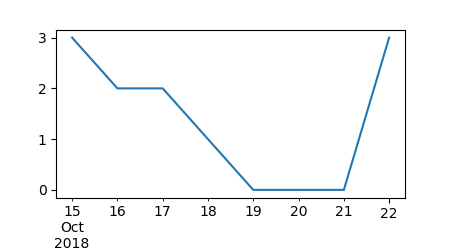
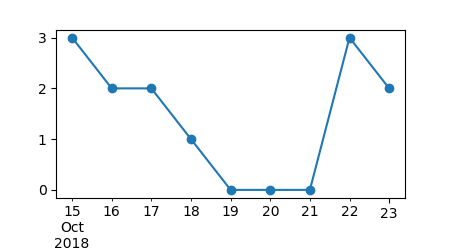
2 papers

diff --git a/readingStats.py b/readingStats.py
@@ -33,7 +33,7 @@ wordcloud.to_file("readingCloud.png")
 a = readDates.groupby('Date').size()
 idx = pd.date_range(min(readDates.Date), max(readDates.Date))
 a =a.reindex(idx,fill_value=0)
-a.plot(figsize = (4.5,2.5))
+a.plot(style='o-',figsize = (4.5,2.5))
 plt.gcf().subplots_adjust(bottom=0.21)
 plt.savefig('readingTimeline.png')
 

diff --git a/acoustics/Foote1987JASA.md b/acoustics/Foote1987JASA.md
@@ -1,0 +1,39 @@
+10/23/18
+## Authors:
+Foote, K. G.
+## Title:
+Fish target strengths for use in echo integrator surveys
+## Keywords:
+acoustics, target strength, model, survey, length
+## Geographic Coverage
+N/A
+## Field Dates:
+N/A
+## Significance:
+An investigation into the backscattering cross section, or target strength, of fish, and the methods for in situ determination of TS and relating it to fish length.  Foote proposes a set of regression analyses from in situ measurements for generalized fish families based on available data.
+
+## Notes:
+Three systems for collecting in situ measurements:
+- Dual-beam systems where simultaneous observation by concentric circles allows for beam compensation off-axis and determination of target strength
+- Split-beam systems where the division of the transducer face into quadrants for separate processing of signal return allows for beam compensation of signal
+- Single-beam systems where many observations of a single target are required to determine a target strength value
+
+TS = 10log&sigma;/4&pi;; where &sigma; is the mean backscattering cross section of the fish.
+
+TS can also be found using a regression of the length of the fish as derived in [Love, 1977](https://asa.scitation.org/doi/10.1121/1.381672), who found that &sigma; and *l*<sup>2</sup> were proportional.  We then use:
+
+TS = 20log*l* + *b* ; where *l* is the mean fish length (cm) and *b* is a coefficient derived for a specific species/group/family.
+
+The primary difference in fish groups is the swimbladder type:
+- physostomes with a duct in/out of the swimbladder where air can be pushed out, but they do not have a rete mirabile for oxygen exchange through the blood to refill/regulate the bladder size efficiently.
+- physoclists which have closed swim bladders and use this gas exchange via blood oxygen to manipulate buoyancy.
+
+TS can further be distinguished by differences in family composition within these groups, and then again by species depending on number of measurements.
+
+TS can vary with time of day as a result of orientation.
+
+Are variations in TS a result of fluctuations in species, time of day, or behavior, and which is most important?  How do individual factors influence the variation?  Tilt angle is a major source of variance, and Foote presents the TS values determined by tethered observations.
+
+Concluding hypotheses
+* Foote presents a set of generalized equations for the relationship between target strength and mean fish length
+* Most variability in the regressions is due to species and behavior which are hard to quantify without a) significant number of measurements and b) knowledge of the orientation of those fish being observed in situ

diff --git a/acoustics/TorgersenKaartvedt2001JMR.md b/acoustics/TorgersenKaartvedt2001JMR.md
@@ -1,0 +1,33 @@
+10/23/18
+## Authors:
+Torgersen, T, and Kaartvedt, S.
+## Title:
+In situ swimming behaviour of individual mesopelagic fish studied by split-beam echo target tracking
+## Keywords:
+acoustics, tracking, diel vertical migration, swimming, mesopelagic
+## Geographic Coverage
+Norway
+## Field Dates:
+02/15/1996
+## Significance:
+One of the earlier papers presenting the use of target tracking of individual fish to evaluate individual behavior.  Used a 38 kHz EK500 for data collection.
+
+## Notes:
+Ship-based split-beam observations, tracks were "collected" from single pings where at most one ping was missing a detection.  Data was collected at both "dusk" and "night" to investigate behavior associated with DVM.
+
+Filtered to -70dB, with a vertical resolution of 10cm and a horizontal angular resolution of .13 degrees, with error increasing with range.
+
+Look for accuracy by comparing swim speed with angular position (i.e., is speed of the fish a 1-to-1 direct relationship with angle size?  likely greater angle bias).  They backed out ship rolling from a linear relationship with the target track (was movement of simultaneously tracked fish correlated?).
+
+Individuals were only tracked outside of the "major scattering layer".  
+
+Swim speeds at dusk were greater than at night, though not considered significant.
+
+Used net-to-gross ratio of swim speeds to suggest that waves did not contribute to the vertical distribution.  However in the vertical dimension, erratic swimming (either positionally or very high values of BL/sec) was likely attributed to heave.
+
+The behavior of tracked individuals was not consistent with the population behavior determined by the scattering layers.  Individuals appear to move down while the layer moves up, though it is possible that the fish are tilted so much as to reduce the TS, making it harder/less likely to detect them at that angle, but the aggregation still appears.
+
+Concluding hypotheses
+* Mesopelagic fish may be more active swimmers than previously assumed.
+* Speed and pattern is related to feeding behavior.
+* Target tracking is a great method for answering these behavioral questions in situ, with tracking data being improved by using moored, upward facing sounders, increasing ping rate, increasing temporal resolution, and maximizing SNR.

diff --git a/README.md b/README.md
@@ -12,6 +12,10 @@ Notes (author, year, journal in file header) on readings.  Top of each note docu
 
 ## acoustics 
  
+* [Foote1987JASA - Fish target strengths for use in echo integrator surveys](https://github.com/leviner/ReadingList/tree/master/acoustics/Foote1987JASA.md) 
+     * An investigation into the backscattering cross section, or target strength, of fish, and the methods for in situ determination of TS and relating it to fish length.  Foote proposes a set of regression analyses from in situ measurements for generalized fish families based on available data. 
+* [TorgersenKaartvedt2001JMR - In situ swimming behaviour of individual mesopelagic fish studied by split-beam echo target tracking](https://github.com/leviner/ReadingList/tree/master/acoustics/TorgersenKaartvedt2001JMR.md) 
+     * One of the earlier papers presenting the use of target tracking of individual fish to evaluate individual behavior.  Used a 38 kHz EK500 for data collection. 
 * [Urmy2012JMS - Measuring the vertical distributional variability of pelagic fauna in Monterey Bay](https://github.com/leviner/ReadingList/tree/master/acoustics/Urmy2012JMS.md) 
      * Use of a moored 38kHz echosounder to look at the vertical distribution of backscatter and temporal variability over an 18-month deployment in Monterey Bay, CA, USA. 
 * [UrmyHorne2016DSRI - Multi-scale responses of scattering layers to environmental variability in Monterey Bay, California](https://github.com/leviner/ReadingList/tree/master/acoustics/UrmyHorne2016DSRI.md) 
